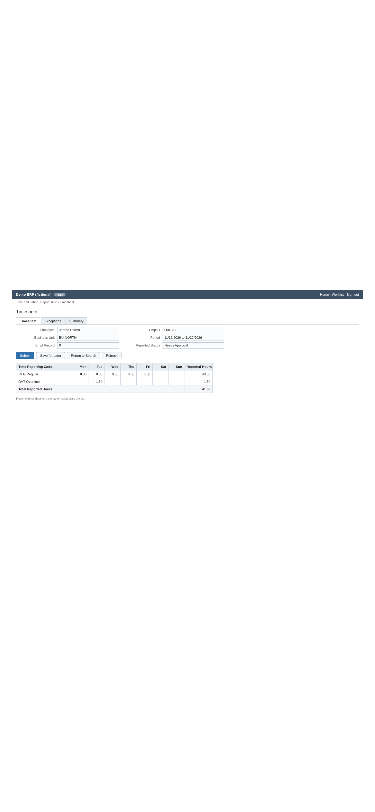
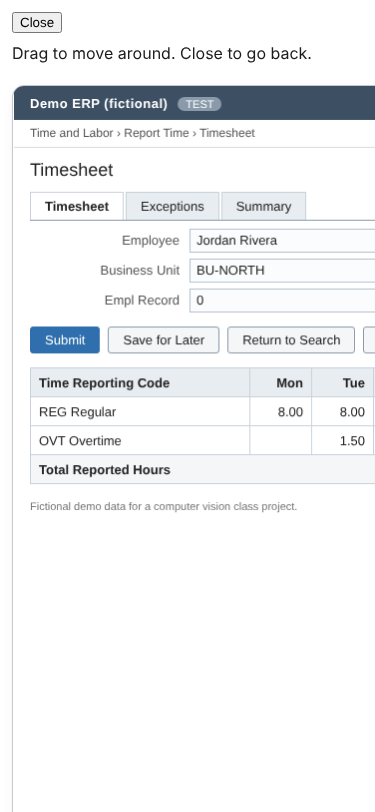
Fix QA round 3 minors: zoom view at full size with Close, Time & Labor module mapping, aria-expanded
QA 230/0, smoke 87/87.

Claude-Session: https://claude.ai/code/session_01MFNGsKkJk1sTYJd7xHhRzx

diff --git a/tools/qa/run_qa.js b/tools/qa/run_qa.js
@@ -1307,11 +1307,11 @@ async function shot15(page, name) { fs.mkdirSync(SHOTS, { recursive: true }); aw
         const { ctx, page, log } = await newPage(browser, { viewport: { width: cfg.vw, height: cfg.vh } });
         await page.goto(URL); await ready(page);
         await page.click('#btn-load-sample'); await page.waitForSelector('#tour:not([hidden])'); await page.waitForTimeout(500);
-        const st = (id) => page.evaluate((i) => { const c = document.getElementById(i), r = c.getBoundingClientRect(); const cs = getComputedStyle(c); return { zoomed: c.classList.contains('is-zoomed'), expanded: c.getAttribute('aria-expanded'), label: c.getAttribute('aria-label'), role: c.getAttribute('role'), pos: cs.position, x: Math.round(r.left), y: Math.round(r.top), w: Math.round(r.width), h: Math.round(r.height), vw: innerWidth, vh: innerHeight, focus: document.activeElement.id, tourOpen: !document.getElementById('tour').hidden }; }, id);
+        const st = (id) => page.evaluate((i) => { const c = document.getElementById(i), f = c.parentElement, r = f.getBoundingClientRect(); const cs = getComputedStyle(f); return { zoomed: f.classList.contains('is-zoomed'), natural: c.getBoundingClientRect().width === c.width, closeFocus: document.activeElement.className === 'zoom-close', expanded: c.getAttribute('aria-expanded'), label: c.getAttribute('aria-label'), role: c.getAttribute('role'), pos: cs.position, x: Math.round(r.left), y: Math.round(r.top), w: Math.round(r.width), h: Math.round(r.height), vw: innerWidth, vh: innerHeight, focus: document.activeElement.id, tourOpen: !document.getElementById('tour').hidden }; }, id);
         const before = await st('tour-before');
         await page.click('#tour-before'); await page.waitForTimeout(250);
         const open = await st('tour-before');
-        rec(`15.1a.${cfg.vw}`, `tap-to-enlarge at ${cfg.vw}: clicking the Before image opens a full-screen view (position fixed, covers the viewport), aria-expanded=true, label "Shrink image"`, !before.zoomed && open.zoomed && open.pos === 'fixed' && open.x <= 1 && open.y <= 1 && open.w >= open.vw - 2 && open.h >= open.vh - 2 && open.expanded === 'true' && open.label === 'Shrink image', { before, open });
+        rec(`15.1a.${cfg.vw}`, `tap-to-enlarge at ${cfg.vw}: clicking the Before image opens a full-screen view (position fixed, covers the viewport), aria-expanded=true, label "Shrink image"`, !before.zoomed && open.zoomed && open.pos === 'fixed' && open.x <= 1 && open.y <= 1 && open.w >= open.vw - 2 && open.h >= open.vh - 2 && open.closeFocus && open.natural && open.expanded === 'true' && open.label === 'Shrink image', { before, open });
         await page.keyboard.press('Escape'); await page.waitForTimeout(250);
         const closed = await st('tour-before');
         rec(`15.1b.${cfg.vw}`, `Esc closes the enlarged view, focus returns to the image, and the tour stays open (Esc does not skip the tour)`, !closed.zoomed && closed.focus === 'tour-before' && closed.tourOpen && closed.expanded === 'false' && closed.label === 'Enlarge image', closed);
@@ -1319,9 +1319,9 @@ async function shot15(page, name) { fs.mkdirSync(SHOTS, { recursive: true }); aw
         await page.focus('#tour-before'); await page.keyboard.press('Enter'); await page.waitForTimeout(200);
         const k1 = await st('tour-before'); await page.keyboard.press('Space'); await page.waitForTimeout(200); const k2 = await st('tour-before');
         rec(`15.1c.${cfg.vw}`, `keyboard: Enter on the focused image enlarges it, Space shrinks it again`, k1.zoomed && !k2.zoomed && k2.focus === 'tour-before', { k1: k1.zoomed, k2: k2.zoomed });
-        await page.click('#tour-before'); await page.waitForTimeout(150); await page.click('#tour-before', { position: { x: 20, y: 20 } }); await page.waitForTimeout(200);
+        await page.click('#tour-before'); await page.waitForTimeout(150); await page.click('#tour-before-fig .zoom-close'); await page.waitForTimeout(200);
         const k3 = await st('tour-before');
-        rec(`15.1d.${cfg.vw}`, `clicking the enlarged image shrinks it again`, !k3.zoomed, k3);
+        rec(`15.1d.${cfg.vw}`, `the visible Close button shrinks it again`, !k3.zoomed, k3);
         // step 2: whichever of the two images is showing (Flip swaps them) enlarges the same way; check both
         await tourNext(page); await page.waitForTimeout(300);
         const vis = () => page.evaluate(() => ['tour-before', 'tour-after'].filter((i) => document.getElementById(i).offsetWidth > 0));

diff --git a/js/app.js b/js/app.js
@@ -344,7 +344,7 @@ function onPsChange(fill = true) {
   if (v && v !== '__other' && fill) {
     $('page-name').value = v;
     const mod = o && o.dataset.module, prod = o && o.dataset.product;
-    const target = mod === 'Time & Labor' ? 'Time & Labor' : prod;
+    const target = /^time (&|and) labou?r$/i.test(String(mod || '').trim()) ? 'Time & Labor' : prod;   // catalog says "Time and Labor", the select value is "Time & Labor"
     const ms = $('page-module'); if ([...ms.options].some((x) => x.value === target)) ms.value = target;
   } else if (v === '__other' && fill) { $('page-name').focus(); }
 }
@@ -1149,9 +1149,33 @@ function bindEvents() {
   for (const id of ['tour-before', 'tour-after']) {      // tap to enlarge the page thumbnail (U4)
     const c = $(id);
     c.classList.add('tour-zoomable'); c.tabIndex = 0; c.setAttribute('role', 'button'); c.setAttribute('aria-label', 'Enlarge image');
-    const flip = () => { const on = !c.classList.contains('is-zoomed'); c.classList.toggle('is-zoomed', on); c.parentElement.classList.toggle('is-zoomed', on); c.setAttribute('aria-expanded', String(on)); c.setAttribute('aria-label', on ? 'Shrink image' : 'Enlarge image'); };
-    c.addEventListener('click', flip);
-    c.addEventListener('keydown', (e) => { if (e.key === 'Enter' || e.key === ' ') { e.preventDefault(); flip(); } else if (e.key === 'Escape' && c.classList.contains('is-zoomed')) { e.preventDefault(); e.stopPropagation(); flip(); c.focus(); } });
+    c.setAttribute('aria-expanded', 'false');             // QA-R3-1: at rest, not only after a toggle
+    const fig = c.parentElement;
+    const closeBtn = document.createElement('button'); closeBtn.type = 'button'; closeBtn.className = 'zoom-close'; closeBtn.textContent = 'Close'; closeBtn.hidden = true;
+    const hint = document.createElement('p'); hint.className = 'zoom-hint'; hint.textContent = 'Drag to move around. Close to go back.'; hint.hidden = true;
+    closeBtn.addEventListener('click', (e) => { e.stopPropagation(); flip(false); });
+    fig.prepend(closeBtn, hint);
+    const flip = (force) => {
+      const on = typeof force === 'boolean' ? force : !fig.classList.contains('is-zoomed');
+      if (on === fig.classList.contains('is-zoomed')) return;
+      fig.classList.toggle('is-zoomed', on); fig.classList.toggle('zoom-view', on);
+      c.setAttribute('aria-expanded', String(on)); c.setAttribute('aria-label', on ? 'Shrink image' : 'Enlarge image');
+      if (on) {   // QA-R3-3: natural-pixel (1:1) view in a scrollable full-screen container with a visible Close
+        c.style.width = c.width + 'px'; c.style.height = c.height + 'px'; c.style.maxWidth = 'none'; c.style.maxHeight = 'none';
+        fig.setAttribute('role', 'dialog'); fig.setAttribute('aria-label', 'Enlarged image'); fig.tabIndex = -1;
+        closeBtn.hidden = false; hint.hidden = false;
+        closeBtn.focus({ preventScroll: true });
+      } else {
+        for (const k of ['width', 'height', 'maxWidth', 'maxHeight']) c.style[k] = '';
+        fig.removeAttribute('role'); fig.removeAttribute('aria-label'); fig.removeAttribute('tabindex');
+        closeBtn.hidden = true; hint.hidden = true;
+        c.focus({ preventScroll: true });
+      }
+    };
+    c.addEventListener('click', () => { if (!fig.classList.contains('is-zoomed')) flip(true); });
+    fig.addEventListener('click', (e) => { if (e.target === fig && fig.classList.contains('is-zoomed')) flip(false); });   // tap outside the image
+    fig.addEventListener('keydown', (e) => { if (e.key === 'Escape' && fig.classList.contains('is-zoomed')) { e.preventDefault(); e.stopPropagation(); flip(false); } });
+    c.addEventListener('keydown', (e) => { if ((e.key === 'Enter' || e.key === ' ') && !fig.classList.contains('is-zoomed')) { e.preventDefault(); flip(true); } });
   }
   $('tour-flip').addEventListener('click', () => { if (S.tour) { S.tour.flip = !S.tour.flip; renderTour(); } });
   $('tour-retry').addEventListener('click', () => { if (S.tour) { S.tour.error = false; renderTour(); doCompare(); } });

diff --git a/css/app.css b/css/app.css
@@ -1061,8 +1061,6 @@ dialog::backdrop { -webkit-backdrop-filter: blur(6px); backdrop-filter: blur(6px
   display: flex; flex-direction: column; align-items: flex-start; gap: .5rem;
 }
 #tour-stage figure.zoom-view canvas { flex: none; width: auto; height: auto; max-width: none; max-height: none; margin: 0; cursor: grab; }
-#tour-stage figure.zoom-view .zoom-close { position: sticky; top: 0; left: 0; z-index: 1; flex: none; min-width: 44px; min-height: 44px; }
-#tour-stage figure.zoom-view .zoom-hint { position: sticky; left: 0; flex: none; margin: 0; color: var(--text-2); }
 #tour-stage figure.zoom-view figcaption { color: var(--text-2); flex: none; }
 
 /* U2 (landing): headline, hero card and the quiet link share ONE left edge */

diff --git a/docs/handoff-log.md b/docs/handoff-log.md
@@ -163,3 +163,4 @@ Kept by **Atlas (orchestrator)**. One row per handoff or review. Experts never c
 | 137 | C | Juno | Atlas | UX-7: tour scrolls each target into the free area (header, bubble, phone bar), step 5 shows Save result, body.tour-open + measured --tour-bar-h, tap-to-enlarge, calm pill during the tour, Finish lands on the strip, <wbr> in #try-real, aria fixes; smoke 87/87; run_qa 196 pass / 5 fail (the 5 assert the old behaviour) | js/app.js, how-it-works.html, tools/app-smoke/run.js | done; Atlas checked Next/Skip are on screen on all 5 steps at 375 and 1366 → pushed live |
 | 138 | C | Quinn | Atlas | UX-QA-3: 226 pass / 4 fail (3 minor defects); live 8/8; every example opens from My pages (clean, already-saved, old-titled); dropdown OK; Next/Skip visible on all steps at 375/1366 | docs/qa-report.md, tools/qa/ | **READY** |
 | 139 | C | Sable | Atlas | UX-8-STYLE: full-screen .zoom-view at 1:1 with pan, a 44 px Close pill, hint chip; contrast pairs | css/app.css, tools/contrast_check.py | done → contract routed to Juno |
+| 140 | C | Juno | Atlas | UX-8: aria-expanded at rest, Time & Labor module mapping fixed, full-size zoom view with Close + hint; smoke 87/87, run_qa 230/0. Juno's concurrent edit replaced Sable's zoom CSS block, so Sable re-applies | js/app.js, css/app.css, tools/qa/run_qa.js | done → pushed |
